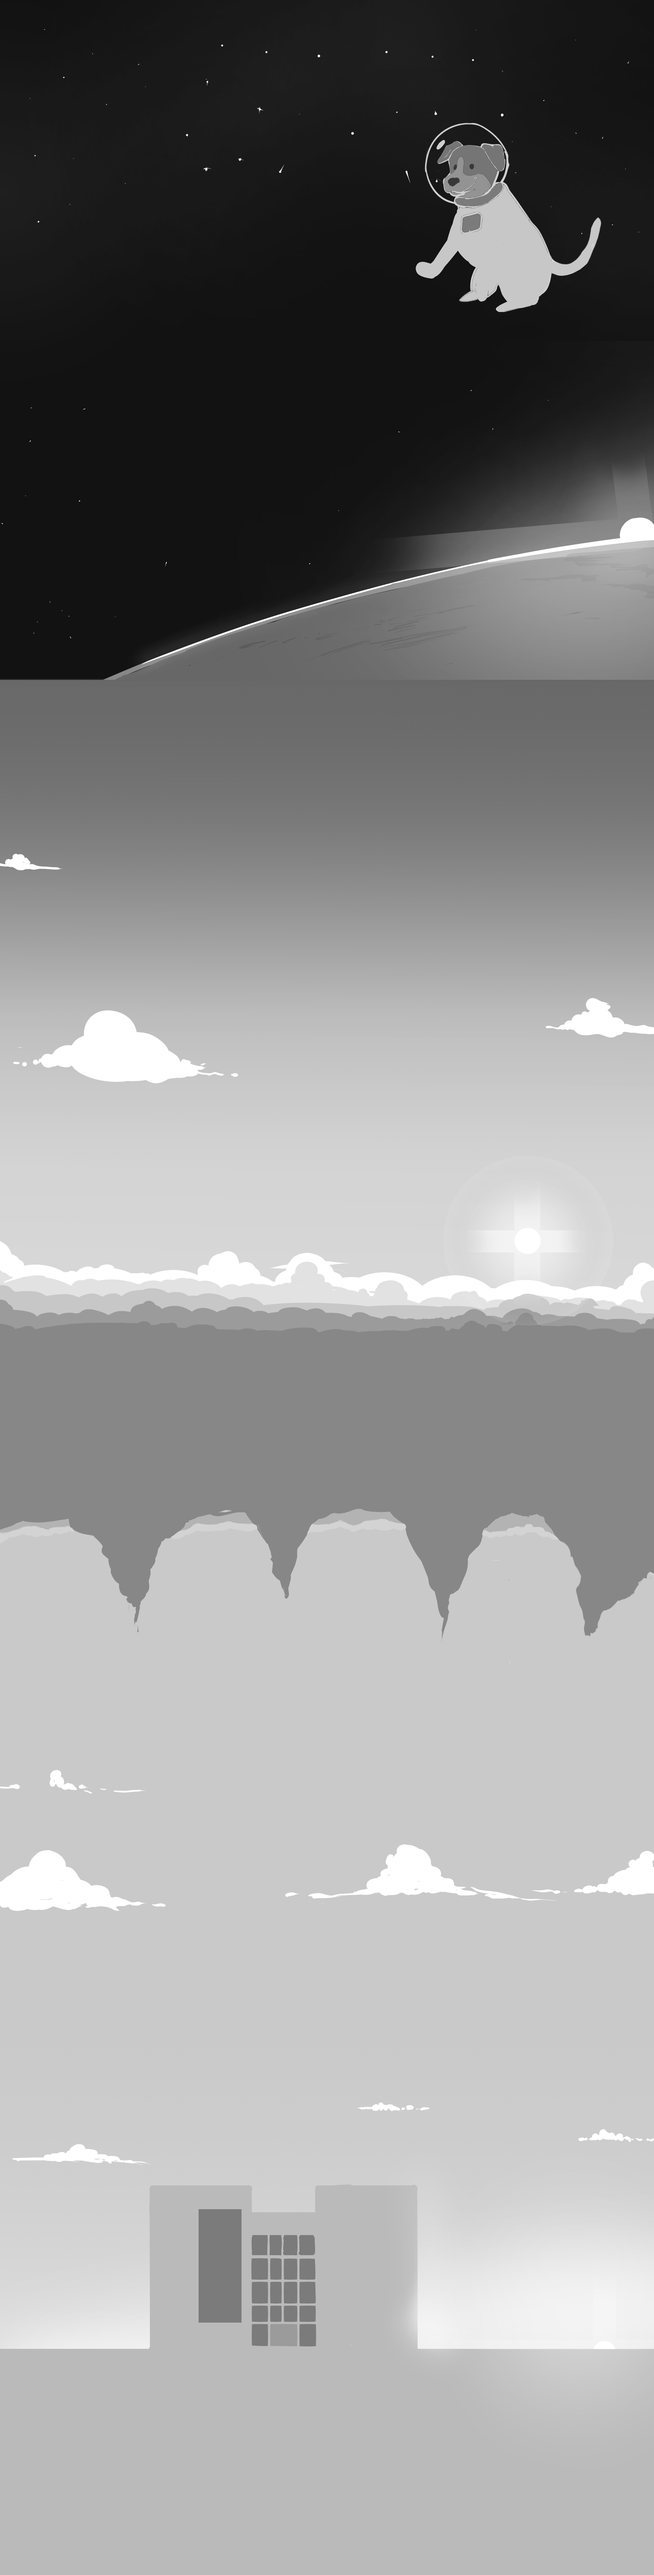
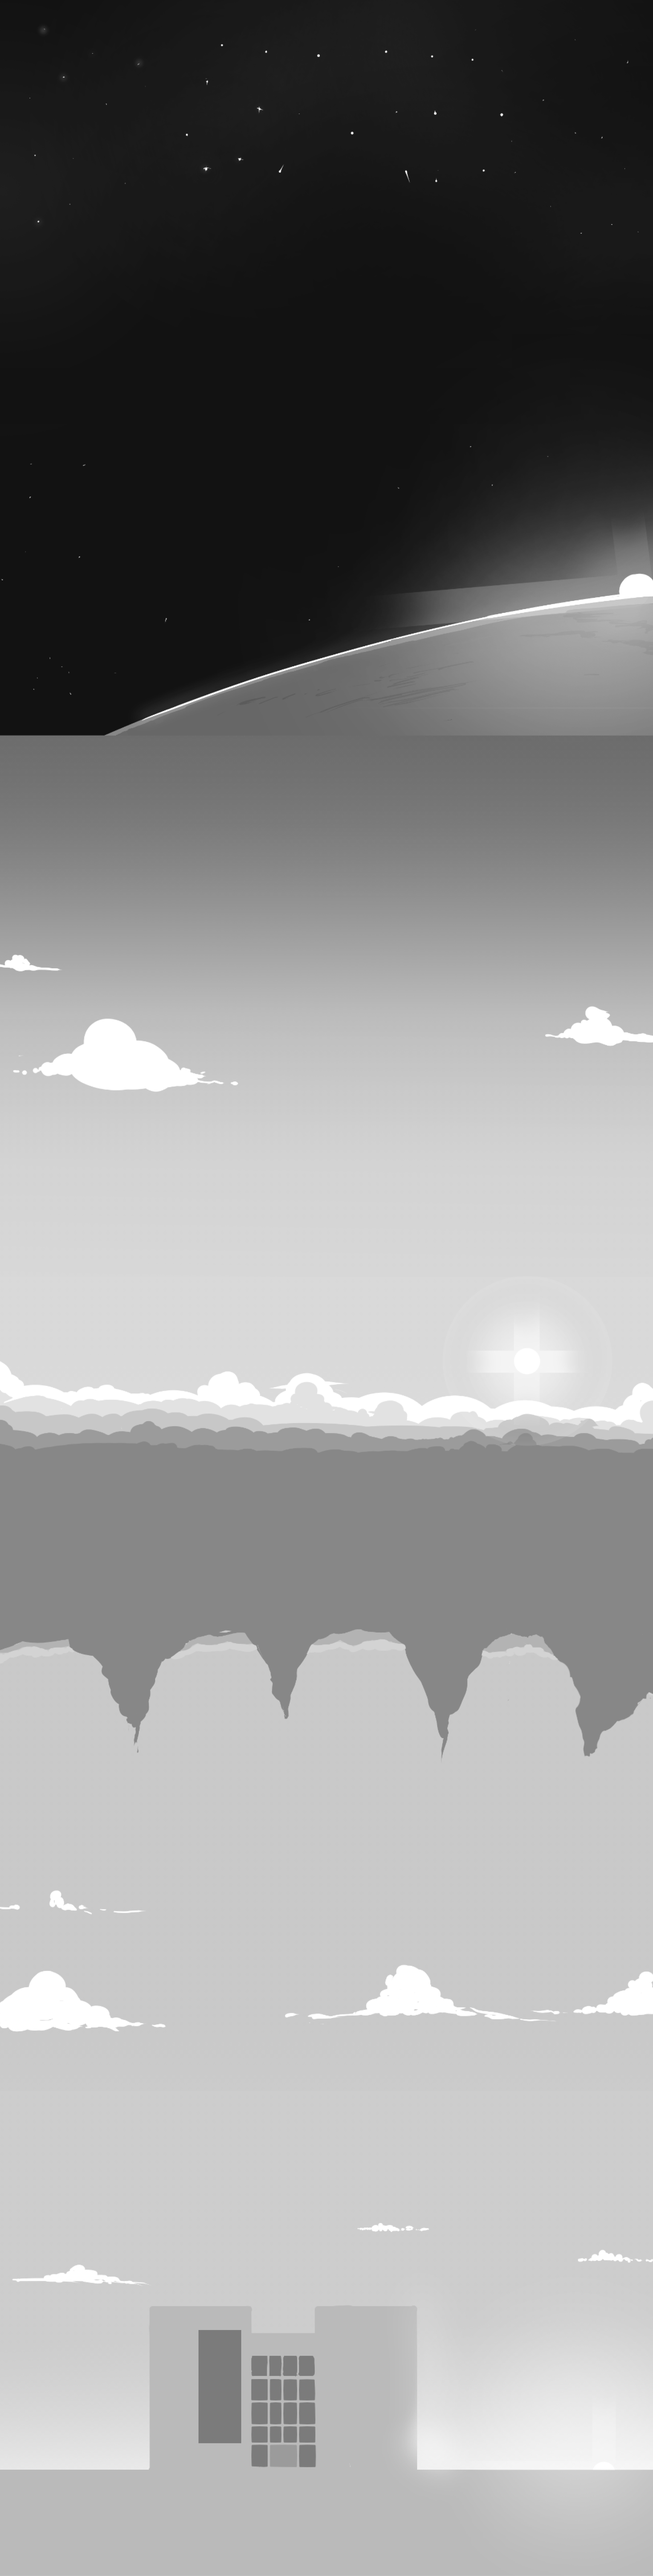
mudando funcionamento do fundo

diff --git a/prototipo1Codesign/presentation.css b/prototipo1Codesign/presentation.css
@@ -26,54 +26,27 @@ html{
     font-size: 62.5%; /* 10px */
     scroll-behavior: smooth;
 
+
 }
 
 body{
-   
-    /*background-image: url(source/fundo_vertical.png);
-    background-size: contain 100%;
+    background-image: url(source/fundo_vertical.png);
+    background-size: cover;
     background-repeat: no-repeat;
-    background-position: 0 0;*/
-    
     
 
+
 }
 
-.container{
-    display: grid;
-    grid-template-columns: repeat(5, 1fr);
-    grid-template-rows: repeat(5, 130rem);
-    width: 100%;
-    margin: 0 auto;
+.grid{
+    min-height: 5357px;
 }
 
-.fundo{
-    grid-column: 1 / 6;
-}
+
+
 
 
 .balao {
-    grid-column: 2/-1;
-    overflow: hidden;
     background-color: #f2f2f2;
     border-radius: 10px;
-    padding: 2rem;
-    max-width: 40rem;
-    height: 18rem;
-
-    margin-left: 50%;
-  }
-  
-.balao p {
-    position: absolute;
-    overflow: hidden;
-    margin: 0;
-    font-family: Arial, Helvetica, sans-serif;
-    font-size: 6rem;
-}
-
-.fundo, .balao{
-    grid-row: 1/2;
-}
-
 

diff --git a/prototipo1Codesign/presentation.html b/prototipo1Codesign/presentation.html
@@ -9,11 +9,8 @@
 </head>
 <body>
    
-    <div class="container">
-      <img src="source/fundo_vertical.png" class="fundo">
-        <div class="balao">
-            <p>Boas vindas! Desça para conhecer o SMD!</p>
-          </div>
+    <div class="grid">
+      
     </div>
   
 <script>
